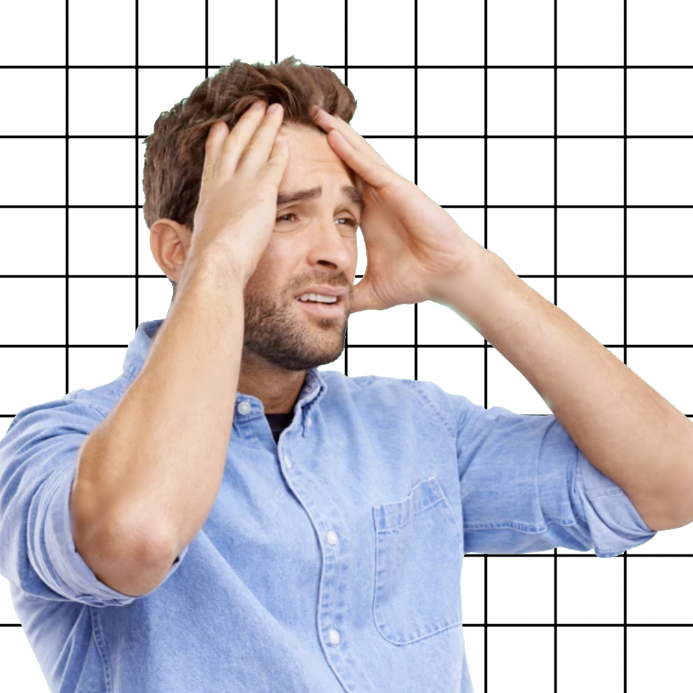
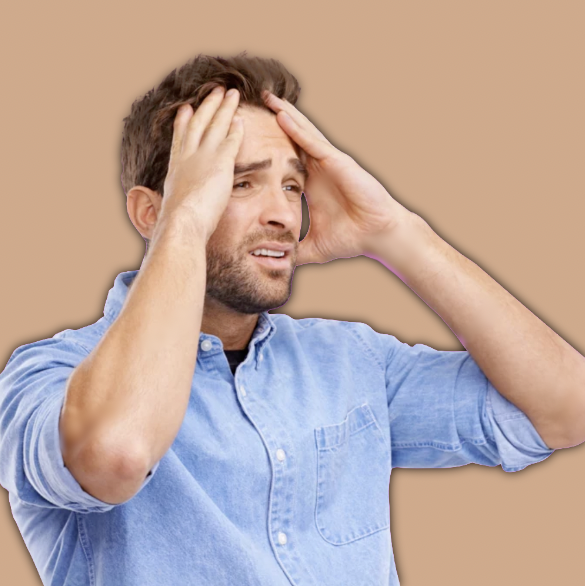
trying new backgrounds for the pictures

diff --git a/Source/PluginProcessor.cpp b/Source/PluginProcessor.cpp
@@ -799,6 +799,12 @@ void HackBrownAudioProcessor::prepareToPlay(double sampleRate, int samplesPerBlo
     // per-hit work it does on the audio thread never reaches the allocator.
     inputProcessor.prepare (sampleRate);
 
+    // Mixing a block down to mono needs somewhere to put it, and recordAudio
+    // runs on the audio thread. Sized generously: a host that hands over more
+    // than it said it would still gets detected on, just from one channel.
+    monoInputScratch.setSize(1, juce::jmax(1, samplesPerBlock));
+    monoInputScratch.clear();
+
     // Allocated here, on the message thread, so recordAudio never has to.
     capturedInput.setSize(renderChannels, juce::jmax(1, (int)(maxCapturedInputSeconds * sampleRate)));
     capturedInput.clear();
@@ -1536,7 +1542,29 @@ void HackBrownAudioProcessor::recordAudio(juce::AudioBuffer<float>& buffer) {
         juce::ignoreUnused(channelData);
     }
 
-    auto* inputData = buffer.getReadPointer(0);
+    const int numSamples = buffer.getNumSamples();
+
+    // The detector hears the mean of the input channels, not whatever happens
+    // to be on the left. Reading channel 0, as this did, meant a take panned to
+    // the right was detected against silence - the capture kept it, so it was
+    // there to play back, but no hits were ever found in it. An uploaded loop
+    // never had this: that path has always summed the file to mono first.
+    const bool mixedToMono = totalNumInputChannels > 0
+                          && monoInputScratch.getNumSamples() >= numSamples;
+
+    if (mixedToMono)
+    {
+        monoInputScratch.clear(0, 0, numSamples);
+
+        for (int channel = 0; channel < totalNumInputChannels; ++channel)
+            monoInputScratch.addFrom(0, 0, buffer, channel, 0, numSamples,
+                                     1.0f / (float) totalNumInputChannels);
+    }
+
+    // Falls back to the left channel only if a host hands over a block larger
+    // than the one it asked for, which would leave nowhere to mix it.
+    auto* inputData = mixedToMono ? monoInputScratch.getReadPointer(0)
+                                  : buffer.getReadPointer(0);
 
     // Keep the raw input for the preview. copyFrom does not allocate, and the
     // length is clamped to the buffer sized in prepareToPlay, so this is safe on
@@ -1544,25 +1572,22 @@ void HackBrownAudioProcessor::recordAudio(juce::AudioBuffer<float>& buffer) {
     {
         const int written = capturedInputLength.load();
         const int room = capturedInput.getNumSamples() - written;
-        const int toKeep = juce::jmin(buffer.getNumSamples(), room);
+        const int toKeep = juce::jmin(numSamples, room);
 
         if (toKeep > 0 && totalNumInputChannels > 0)
         {
-            // A mono input is carried on both sides rather than left half
-            // silent; the analysis still reads channel 0 either way.
+            // The take itself keeps its channels as they arrived, so a loop
+            // panned to one side comes back panned to that side.
             for (int channel = 0; channel < capturedInput.getNumChannels(); ++channel)
                 capturedInput.copyFrom(channel, written, buffer,
                                        juce::jmin(channel, totalNumInputChannels - 1), 0, toKeep);
 
-            // What the detector gets is the mean of the input channels, so a
-            // take is heard the same way whichever side it arrived on - and a
-            // hit panned off to one of them is not half missed. A mono input
-            // is its own mean, so nothing changes there.
-            analysisInput.clear(0, written, toKeep);
-
-            for (int channel = 0; channel < totalNumInputChannels; ++channel)
-                analysisInput.addFrom(0, written, buffer, channel, 0, toKeep,
-                                      1.0f / (float) totalNumInputChannels);
+            // What is kept for a re-analysis is exactly what the detector just
+            // heard, so re-running it finds the same hits.
+            if (mixedToMono)
+                analysisInput.copyFrom(0, written, monoInputScratch, 0, 0, toKeep);
+            else
+                analysisInput.copyFrom(0, written, buffer, 0, 0, toKeep);
 
             capturedInputLength.store(written + toKeep);
         }
@@ -1573,7 +1598,7 @@ void HackBrownAudioProcessor::recordAudio(juce::AudioBuffer<float>& buffer) {
 
         // Only process if we have a corresponding input channel
         if (channel < totalNumInputChannels) {
-            classifyAudioBlock(channel, inputData, buffer.getNumSamples());
+            classifyAudioBlock(channel, inputData, numSamples);
         }
         else {
             // Clear any extra output channels

diff --git a/Source/PluginProcessor.h b/Source/PluginProcessor.h
@@ -503,6 +503,12 @@ private:
     */
     static constexpr int renderChannels = 2;
 
+    /** One block of input summed to mono, which is what the onset detector is
+        fed and what is kept for a re-analysis. Sized in prepareToPlay so that
+        mixing it costs the audio thread nothing but the add.
+    */
+    juce::AudioBuffer<float> monoInputScratch;
+
     // A take read back from the plugin's state, held until prepareToPlay has
     // sized capturedInput for it. Empty at every other moment.
     juce::AudioBuffer<float> restoredInput;
